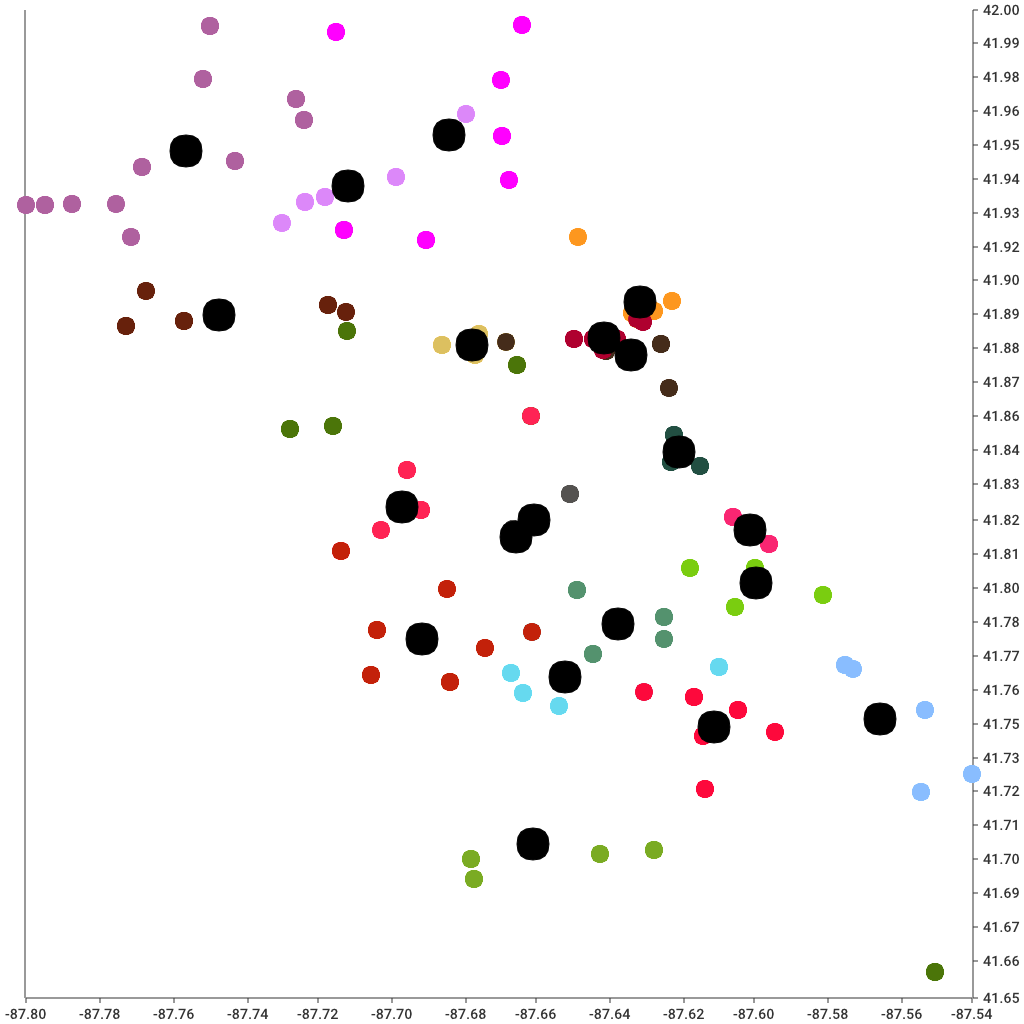
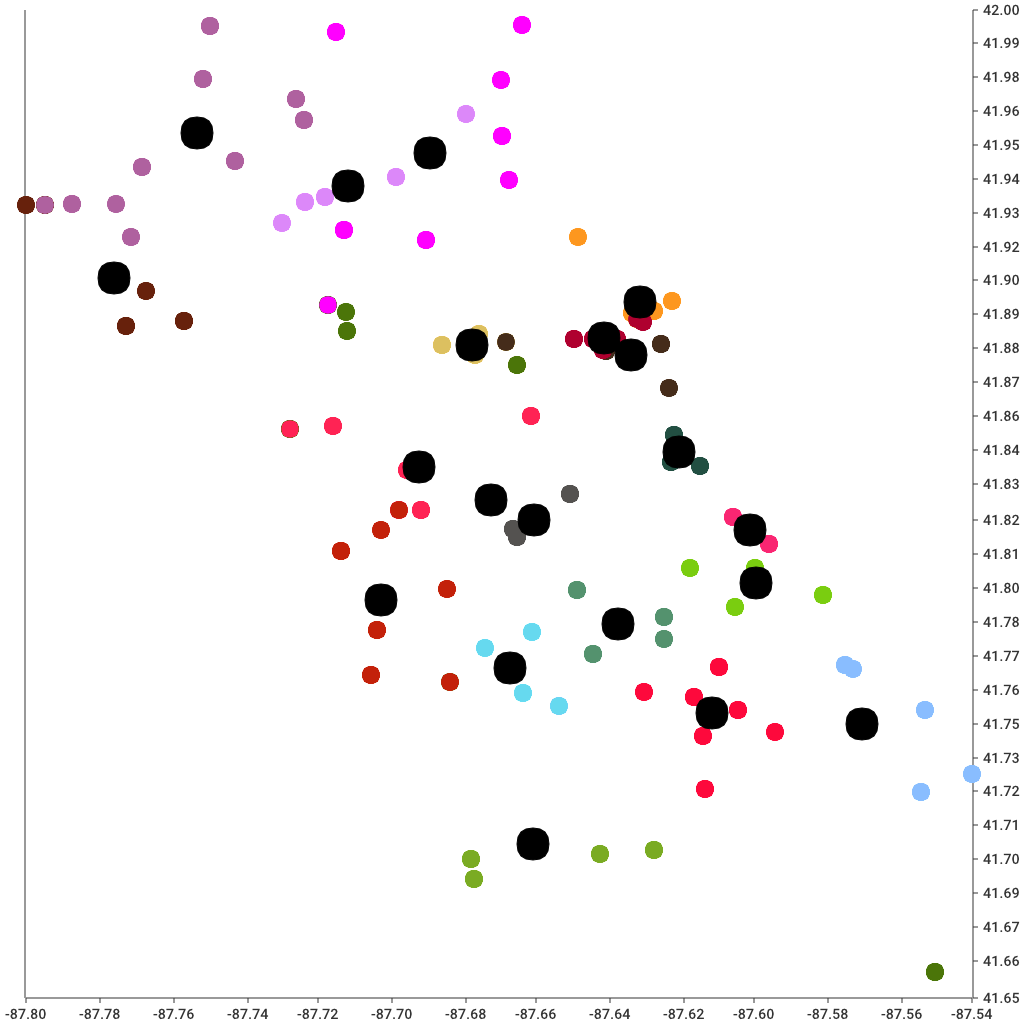
neighbouring sesuai urutan

diff --git a/borderadjust.go b/borderadjust.go
@@ -36,7 +36,7 @@ func (c Clusters) borderadjust(A int, B int) (Observations, []diffsort) {
 	//  Move the first m point in area A based on sorted
 	// diff(p, B) to area B;
 	// chunkSize := (len(d) + 20 - 1) / 20
-	if len(c[A].Observations) > 102 { //&& len(c[A].Observations) > len(c[B].Observations) {
+	if len(c[A].Observations) > 102 && len(c[A].Observations) > len(c[B].Observations) {
 		m := len(c[A].Observations) - 102
 		for i := 0; i < m; i++ {
 			// move to B
